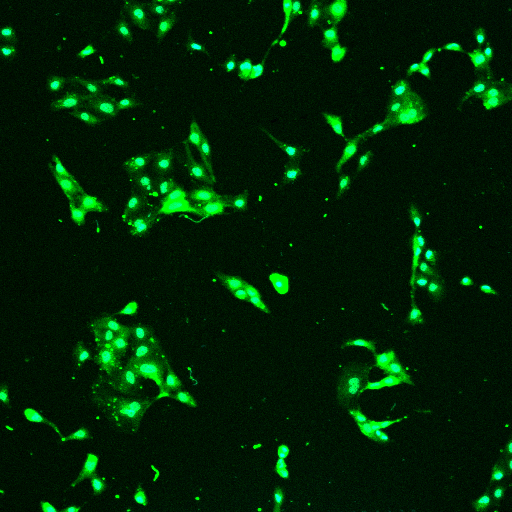
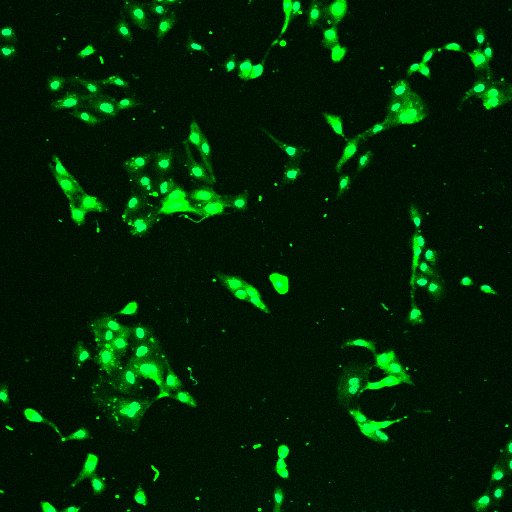
SSDM-2328: The two problems described in the comment of the issue are solved. Many reference images of the system tests had to be changed. Most image changes are to small to be visible except merged images in MicroscopyImageDropboxTest. IntensityRescaling.rescaleIntensityLevelTo8Bits: Improved algor
SVN: 34515

diff --git a/screening/source/java/ch/systemsx/cisd/openbis/dss/etl/Hdf5ThumbnailGenerator.java b/screening/source/java/ch/systemsx/cisd/openbis/dss/etl/Hdf5ThumbnailGenerator.java
@@ -42,6 +42,7 @@ import ch.systemsx.cisd.common.exceptions.EnvironmentFailureException;
 import ch.systemsx.cisd.common.exceptions.Status;
 import ch.systemsx.cisd.common.exceptions.UserFailureException;
 import ch.systemsx.cisd.common.filesystem.FileUtilities;
+import ch.systemsx.cisd.common.image.IntensityRescaling;
 import ch.systemsx.cisd.common.logging.LogCategory;
 import ch.systemsx.cisd.common.logging.LogFactory;
 import ch.systemsx.cisd.common.process.ProcessExecutionHelper;
@@ -58,6 +59,7 @@ import ch.systemsx.cisd.openbis.dss.etl.dto.ImageLibraryInfo;
 import ch.systemsx.cisd.openbis.dss.etl.dto.RelativeImageFile;
 import ch.systemsx.cisd.openbis.dss.etl.dto.api.Channel;
 import ch.systemsx.cisd.openbis.dss.etl.dto.api.ChannelColorComponent;
+import ch.systemsx.cisd.openbis.dss.etl.dto.api.ChannelColorRGB;
 import ch.systemsx.cisd.openbis.dss.etl.dto.api.ImageFileInfo;
 import ch.systemsx.cisd.openbis.dss.etl.dto.api.ImageStorageConfiguraton;
 import ch.systemsx.cisd.openbis.dss.etl.dto.api.ThumbnailsStorageFormat;
@@ -164,6 +166,8 @@ public class Hdf5ThumbnailGenerator implements IHDF5WriterClient
     private final Logger logger;
 
     private final Map<String, ColorComponent> channelColors = new HashMap<String, ColorComponent>();
+    
+    private final Map<String, IntensityRescaling.Channel> representativeChannels = new HashMap<String, IntensityRescaling.Channel>();
 
     private final boolean registerOriginalImageAsThumbnail;
 
@@ -193,6 +197,7 @@ public class Hdf5ThumbnailGenerator implements IHDF5WriterClient
             Map<String, ImageTransformation> transformations =
                     new HashMap<String, ImageTransformation>();
             transformationsForChannels.put(ch.getCode(), transformations);
+            representativeChannels.put(ch.getCode(), getRepresentativeColorChannelOrNull(ch));
             if (ch.getAvailableTransformations() != null)
             {
                 for (ImageTransformation it : ch.getAvailableTransformations())
@@ -201,7 +206,7 @@ public class Hdf5ThumbnailGenerator implements IHDF5WriterClient
                 }
             }
         }
-
+        
         if (imageDataSetStructure.getChannelColorComponents() != null
                 && imageDataSetStructure.getChannelColorComponents().size() > 0)
         {
@@ -212,6 +217,27 @@ public class Hdf5ThumbnailGenerator implements IHDF5WriterClient
                                 .getChannelColorComponents().get(i)));
             }
         }
+    }
+    
+    private IntensityRescaling.Channel getRepresentativeColorChannelOrNull(Channel ch)
+    {
+        ChannelColorRGB channelColor = ch.tryGetChannelColor();
+        if (channelColor == null)
+        {
+            return null;
+        }
+        IntensityRescaling.Channel channel = IntensityRescaling.Channel.RED;
+        int max = channelColor.getR();
+        if (max < channelColor.getG())
+        {
+            channel = IntensityRescaling.Channel.GREEN;
+            max = channelColor.getG();
+        }
+        if (max < channelColor.getB())
+        {
+            channel = IntensityRescaling.Channel.BLUE;
+        }
+        return channel;
     }
 
     /**
@@ -450,7 +476,9 @@ public class Hdf5ThumbnailGenerator implements IHDF5WriterClient
         }
 
         boolean highQuality = thumbnailsStorageFormat.isHighQuality();
-        BufferedImage rescaledImage = ImageUtil.rescale(image, widht, height, false, highQuality, DssScreeningUtils.CONVERTER);
+        IntensityRescaling.Channel representativeChannelOrNull = representativeChannels.get(imageFileInfo.getChannelCode());
+        BufferedImage rescaledImage = ImageUtil.rescale(image, widht, height, false, highQuality, 
+                representativeChannelOrNull, DssScreeningUtils.CONVERTER);
         
         final List<ThumbnailData> thumbnails = new ArrayList<ThumbnailData>();
         for (String channelCode : getChannelsToProcess(imageFileInfo.getChannelCode()))

diff --git a/datastore_server/source/java/ch/systemsx/cisd/openbis/dss/generic/shared/utils/ImageUtil.java b/datastore_server/source/java/ch/systemsx/cisd/openbis/dss/generic/shared/utils/ImageUtil.java
@@ -45,6 +45,7 @@ import ar.com.hjg.pngj.ImageInfo;
 import ar.com.hjg.pngj.ImageLine;
 import ar.com.hjg.pngj.PngFilterType;
 import ar.com.hjg.pngj.PngWriter;
+
 import ch.rinn.restrictions.Private;
 import ch.systemsx.cisd.base.exceptions.IOExceptionUnchecked;
 import ch.systemsx.cisd.base.io.IRandomAccessFile;
@@ -982,7 +983,13 @@ public class ImageUtil
     private static BufferedImage convertForDisplayIfNecessary(BufferedImage image, Float threshold,
             IImageToPixelsConverter converterOrNull)
     {
-        Channel channel = getRepresentativeChannelIfEffectiveGrayAndMoreThan8Bit(image);
+        return convertForDisplayIfNecessary(image, threshold, null, converterOrNull);
+    }
+    
+    private static BufferedImage convertForDisplayIfNecessary(BufferedImage image, Float threshold,
+            IntensityRescaling.Channel representativeChannelOrNull, IImageToPixelsConverter converterOrNull)
+    {
+        Channel channel = getRepresentativeChannelIfEffectiveGrayAndMoreThan8Bit(image, representativeChannelOrNull);
         if (channel != null)
         {
             Pixels pixels = converterOrNull == null ? new Pixels(image) : converterOrNull.convert(image);
@@ -1016,7 +1023,8 @@ public class ImageUtil
         }
     }
 
-    private static Channel getRepresentativeChannelIfEffectiveGrayAndMoreThan8Bit(BufferedImage image)
+    private static Channel getRepresentativeChannelIfEffectiveGrayAndMoreThan8Bit(BufferedImage image,
+            IntensityRescaling.Channel representativeChannelOrNull)
     {
         if (getMaxNumberOfBitsPerComponent(image) <= 8)
         {
@@ -1027,7 +1035,7 @@ public class ImageUtil
         {
             return colorModel.getNumColorComponents() == 1 ? Channel.RED : null;
         }
-        return getRepresentativeChannelIfEffectiveGray(image);
+        return representativeChannelOrNull != null ? representativeChannelOrNull : getRepresentativeChannelIfEffectiveGray(image);
     }
 
     /**
@@ -1105,6 +1113,13 @@ public class ImageUtil
     public static BufferedImage rescale(BufferedImage image, int maxWidth, int maxHeight,
             boolean enlargeIfNecessary, boolean highQuality8Bit, IImageToPixelsConverter converterOrNull)
     {
+        return rescale(image, maxWidth, maxHeight, enlargeIfNecessary, highQuality8Bit, null, converterOrNull);
+    }
+
+    public static BufferedImage rescale(BufferedImage image, int maxWidth, int maxHeight,
+                boolean enlargeIfNecessary, boolean highQuality8Bit, 
+                IntensityRescaling.Channel representativeChannelOrNull, IImageToPixelsConverter converterOrNull)
+        {
         int width = image.getWidth();
         int height = image.getHeight();
         // the image has already the required size
@@ -1136,7 +1151,7 @@ public class ImageUtil
             // WORKAROUND: non-default interpolations do not work well with 16 bit grayscale images.
             // We have to rescale colors to 8 bit here, otherwise the result will contain only few
             // colors.
-            imageToRescale = convertForDisplayIfNecessary(imageToRescale, 0f, converterOrNull);
+            imageToRescale = convertForDisplayIfNecessary(imageToRescale, 0f, representativeChannelOrNull, converterOrNull);
         }
         graphics2D.drawImage(imageToRescale, 0, 0, thumbnailWidth, thumbnailHeight, null);
         graphics2D.dispose();

diff --git a/screening/source/java/ch/systemsx/cisd/openbis/dss/generic/server/images/ImageChannelsUtils.java b/screening/source/java/ch/systemsx/cisd/openbis/dss/generic/server/images/ImageChannelsUtils.java
@@ -420,15 +420,36 @@ public class ImageChannelsUtils
             Float threshold)
     {
         BufferedImage image = imageReference.getUnchangedImage();
-        image = rescaleIfNot8Bit(image, threshold);
+        ChannelColorRGB channelColor = imageReference.getChannelColor();
+        image = rescaleIfNot8Bit(image, threshold, channelColor);
         image = resize(image, imageReference.getRequestedSize());
         image = extractChannel(image, imageReference.tryGetColorComponent());
         image = transform(image, imageReference, transformationInfo, threshold);
-        image = transformGrayToColor(image, imageReference.getChannelColor());
+        image = transformGrayToColor(image, channelColor);
         return image;
     }
 
-    public static BufferedImage rescaleIfNot8Bit(BufferedImage image, Float threshold)
+    public static BufferedImage rescaleIfNot8Bit(BufferedImage image, Float threshold, ChannelColorRGB channelColorOrNull)
+    {
+        if (channelColorOrNull == null)
+        {
+            return rescaleIfNot8Bit(image, threshold, Channel.values());
+        }
+        Channel channel = Channel.RED;
+        int max = channelColorOrNull.getR();
+        if (max < channelColorOrNull.getG())
+        {
+            max = channelColorOrNull.getG();
+            channel = Channel.GREEN;
+        }
+        if (max < channelColorOrNull.getB())
+        {
+            channel = Channel.BLUE;
+        }
+        return rescaleIfNot8Bit(image, threshold, channel);
+    }
+
+    private static BufferedImage rescaleIfNot8Bit(BufferedImage image, Float threshold, Channel... channels)
     {
         if (ImageUtil.getMaxNumberOfBitsPerComponent(image) <= 8)
         {
@@ -436,8 +457,9 @@ public class ImageChannelsUtils
         }
         Pixels pixels = DssScreeningUtils.createPixels(image);
         float thresholdValue = getThresholdValue(threshold);
-        Levels levels = IntensityRescaling.computeLevels(pixels, thresholdValue, Channel.values());
-        return IntensityRescaling.rescaleIntensityLevelTo8Bits(pixels, levels, Channel.values());
+        Channel[] channelsForComputation = pixels.getPixelData().length == 1 ? new Channel[] {Channel.RED} : channels;
+        Levels levels = IntensityRescaling.computeLevels(pixels, thresholdValue, channelsForComputation);
+        return IntensityRescaling.rescaleIntensityLevelTo8Bits(pixels, levels, channelsForComputation);
     }
 
     private static float getThresholdValue(Float threshold)
@@ -550,7 +572,7 @@ public class ImageChannelsUtils
         {
             BufferedImage image = imageWithReference.getBufferedImage();
             AbsoluteImageReference imageReference = imageWithReference.getReference();
-            image = rescaleIfNot8Bit(image, 0f);
+            image = rescaleIfNot8Bit(image, 0f, imageReference.getChannelColor());
             image = resize(image, imageReference.getRequestedSize());
             image = transformForChannel(image, imageReference, transformationInfo);
             image = transformGrayToColor(image, imageReference.getChannelColor());

diff --git a/common/source/java/ch/systemsx/cisd/common/image/IntensityRescaling.java b/common/source/java/ch/systemsx/cisd/common/image/IntensityRescaling.java
@@ -433,10 +433,9 @@ public class IntensityRescaling
 
     /**
      * Computes an intensity rescaled image from the given <var>image</var>, using the black point
-     * and white point as defined by <var>levels</var>. 
+     * and white point as defined by <var>levels</var>. Rescaling preserves color hue and saturation.
      */
-    public static BufferedImage rescaleIntensityLevelTo8Bits(Pixels pixels, Levels levels,
-            Channel... channels)
+    public static BufferedImage rescaleIntensityLevelTo8Bits(Pixels pixels, Levels levels, Channel... channels)
     {
         assert channels.length > 0 : "No channels specified.";
         final int width = pixels.getWidth();
@@ -447,21 +446,33 @@ public class IntensityRescaling
         final BufferedImage rescaledImage = new BufferedImage(width, height, type);
         WritableRaster rescaledRaster = rescaledImage.getRaster();
 
-        for (Channel channel : channels)
+        for (int y = 0; y < height; ++y)
         {
-            int band = channel.getBand();
-            if (band >= numberOfColorComponents)
+            int offset = y * width;
+            for (int x = 0; x < width; ++x)
             {
-                break;
-            }
-            for (int y = 0; y < height; ++y)
-            {
-                int offset = y * width;
-                for (int x = 0; x < width; ++x)
+                int intensity = 0;
+                for (Channel channel : channels)
                 {
-                    int originalIntensity = pixelData[band][offset + x];
-                    int rescaledIntensity = rescaleIntensity(originalIntensity, levels);
-                    rescaledRaster.setSample(x, y, band, rescaledIntensity);
+                    int band = channel.getBand();
+                    if (band < numberOfColorComponents)
+                    {
+                        intensity = Math.max(intensity, pixelData[band][offset + x]);
+                    }
+                }
+                if (intensity != 0)
+                {
+                    int rescaledIntensity = rescaleIntensity(intensity, levels);
+                    for (Channel channel : channels)
+                    {
+                        int band = channel.getBand();
+                        if (band < numberOfColorComponents)
+                        {
+                            int bandIntensity = pixelData[band][offset + x];
+                            int rescaledBandIntensity = (bandIntensity * rescaledIntensity + intensity / 2) / intensity;
+                            rescaledRaster.setSample(x, y, band, rescaledBandIntensity);
+                        }
+                    }
                 }
             }
         }

diff --git a/common/sourceTest/java/ch/systemsx/cisd/common/image/IntensityRescalingTest.java b/common/sourceTest/java/ch/systemsx/cisd/common/image/IntensityRescalingTest.java
@@ -110,8 +110,8 @@ public class IntensityRescalingTest
         ImageHistogram histogram = ImageHistogram.calculateHistogram(rescaledImage);
         
         assertEquals("[0=12, 255=18]", renderHistogram(histogram.getRedHistogram()));
-        assertEquals("[0=12, 222=12, 255=6]", renderHistogram(histogram.getGreenHistogram()));
-        assertEquals("[0=18, 222=12]", renderHistogram(histogram.getBlueHistogram()));
+        assertEquals("[0=12, 175=12, 200=6]", renderHistogram(histogram.getGreenHistogram()));
+        assertEquals("[0=18, 175=12]", renderHistogram(histogram.getBlueHistogram()));
     }
     
     @Test
@@ -132,8 +132,8 @@ public class IntensityRescalingTest
         ImageHistogram histogram = ImageHistogram.calculateHistogram(rescaledImage);
         
         assertEquals("[0=12, 255=18]", renderHistogram(histogram.getRedHistogram()));
-        assertEquals("[0=12, 173=12, 255=6]", renderHistogram(histogram.getGreenHistogram()));
-        assertEquals("[0=18, 173=12]", renderHistogram(histogram.getBlueHistogram()));
+        assertEquals("[0=12, 153=12, 204=6]", renderHistogram(histogram.getGreenHistogram()));
+        assertEquals("[0=18, 153=12]", renderHistogram(histogram.getBlueHistogram()));
     }
     
     @Test

diff --git a/screening/source/java/ch/systemsx/cisd/openbis/dss/etl/dto/api/impl/MaximumIntensityProjectionGenerationAlgorithm.java b/screening/source/java/ch/systemsx/cisd/openbis/dss/etl/dto/api/impl/MaximumIntensityProjectionGenerationAlgorithm.java
@@ -120,7 +120,7 @@ public class MaximumIntensityProjectionGenerationAlgorithm implements IImageGene
             ChannelAndColorComponent channelAndColorComponent = channelsByCode.get(imageFileInfo.getChannelCode());
             String identifier = imageFileInfo.tryGetUniqueStringIdentifier();
             BufferedImage image = loadImage(imageProvider, incomingDirectory, imagePath, identifier, library);
-            image = ImageChannelsUtils.rescaleIfNot8Bit(image, 0f);
+            image = ImageChannelsUtils.rescaleIfNot8Bit(image, 0f, channelAndColorComponent.channel.tryGetChannelColor());
             image = ImageChannelsUtils.extractChannel(image, channelAndColorComponent.colorComponent);
             image = ImageChannelsUtils.transformGrayToColor(image, channelAndColorComponent.channel.tryGetChannelColor());
             maxIntensity = addImage(image);
